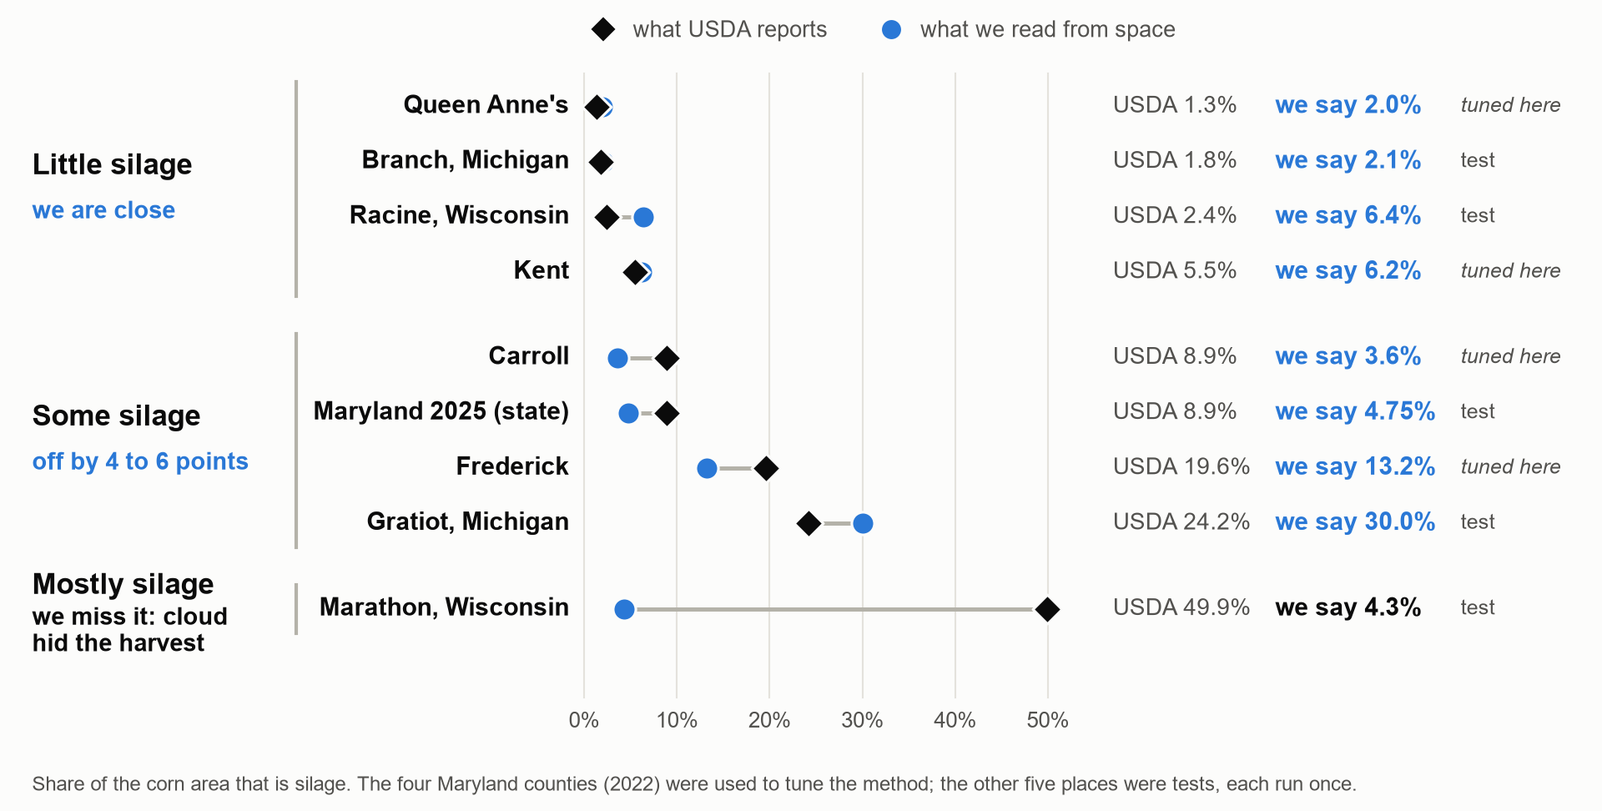
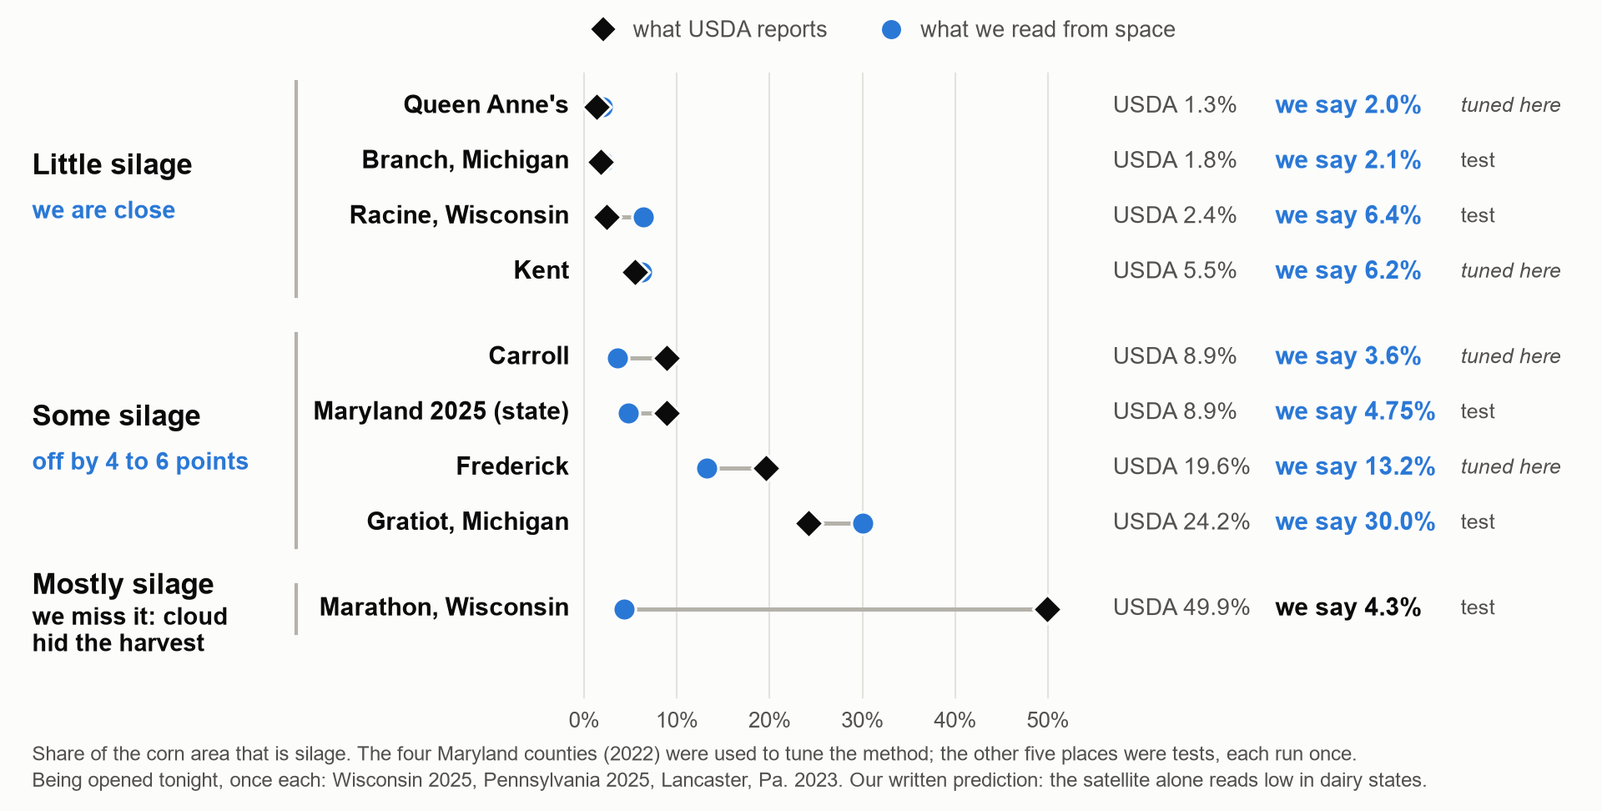
Deck: Landsat brings Marathon's corn back into view; starting from USDA's last figure, six of eight counties move closer; rows for the three tests still to come

Changed region(s): [[0.0, 0.9259, 0.9062, 0.9877]]

diff --git a/docs/pitch/build_deck.py b/docs/pitch/build_deck.py
@@ -123,16 +123,16 @@ ONE_MINUTE = """
 2. The US has almost no labelled fields. So we trained on 8,000 fields from farm registries in Europe.
 3. Our model had never seen an American field. At Beltsville it got 42 of USDA's 44 labelled fields right.
 4. In counties where silage is rare, our numbers are close to USDA's.
-5. We missed one dairy county in Wisconsin. Clouds hid the silage harvest there for 25 days.
-6. Next, we will report such a county as a range, and add a second satellite, Landsat, which had a clear picture inside that gap.
+5. We missed one dairy county in Wisconsin. Clouds hid the silage harvest for 25 days, and a second satellite, Landsat, brought most of it back into view.
+6. Next we need labelled fields from northern dairy country, because silage there is cut later than in Europe.
 
 === 一分钟版本（上面六句的中文） ===
 1. 美国农业部问：从太空看，一块玉米地是切碎做了青贮，还是收了籽粒？
 2. 美国几乎没有带标签的地块，所以我们用欧洲农场登记里的 8,000 个地块来训练。
 3. 我们的模型从没见过美国的地。在 Beltsville，美国农业部 44 个带标签的地块它对了 42 个。
 4. 在青贮很少的县，我们的数字和美国农业部的很接近。
-5. 我们读错了威斯康星的一个奶牛县：那里的云把青贮收割期挡住了 25 天。
-6. 下一步，这样的县我们会报一个范围，并且加上第二颗卫星 Landsat，它在那段多云期中间拍到了一张清晰的影像。"""
+5. 我们读错了威斯康星的一个奶牛县：云把青贮收割期挡住了 25 天，第二颗卫星 Landsat 把其中大部分又看回来了。
+6. 下一步我们需要北方奶牛产区带标签的地块，因为那里的青贮比欧洲割得晚。"""
 
 
 def build(out):
@@ -141,7 +141,7 @@ def build(out):
     half = (FULL - 0.4) / 2
     third = (FULL - 2 * 0.3) / 3
 
-    # ===== the story, nine slides =====================================================================
+    # ===== the story, ten slides ======================================================================
 
     # 1  the question ----------------------------------------------------------------------------
     s = new_slide(prs, "Can you tell what happened in a cornfield from space?", size=38, top=0.7, height=1.3)
@@ -170,7 +170,8 @@ def build(out):
     text(s, MX + half + 1.1, 1.8, half - 1.1, 0.5, "Austria, France, the Netherlands", size=20, bold=True, color=WHITE)
     text(s, MX + half + 1.1, 2.35, half - 1.1, 1.6, f"{N.FIELDS_LABELLED_EUROPE:,}", size=110, bold=True, color=WHITE)
     text(s, MX + half + 1.1, 4.2, half - 1.1, 0.9, "fields where the farmer told the government: silage, or grain.", size=16, color=WHITE)
-    text(s, MX, 5.6, FULL, 1.3, "A new data source: European farm registries.\nThe model learns there. It is tested here, on fields it has never seen.",
+    text(s, MX, 5.6, FULL, 1.3, "Two new data sources: European farm registries to learn from, and a second satellite, Landsat, for cloudy weeks.\n"
+         "The model learns in Europe. It is tested here, on fields it has never seen.",
          size=22, color=INK, spacing=1.2)
     notes(s, "To teach a computer you need examples, and the US has only 44 labelled fields. "
              "But in Europe, farmers tell their governments what each field is for. So we learned from 8,000 European fields.",
@@ -260,7 +261,15 @@ def build(out):
              "We are close where silage is rare, and we miss the county where silage is everywhere.",
           "然后我们想办法把它考倒：拿九个地方和美国农业部自己的数字对比。青贮少的地方我们很接近；青贮最多的那个县，我们读错了。")
 
-    # 7  what the data taught us ---------------------------------------------------------------------------
+    # 7  starting from USDA's last figure ---------------------------------------------------------------------
+    s = new_slide(prs, "Start from USDA's last figure: our pictures move six of eight counties closer to the truth")
+    body_picture(s, "s_update.png")
+    notes(s, "USDA already has an older number for every county. We start from it and let the pictures update it, field by field. "
+             "In six of eight counties the update moves closer to the truth. These are counties we tuned on, so it is not a test yet.",
+          "美国农业部对每个县都已经有一个旧数字。我们从它出发，让卫星图片逐块地更新它。八个县里有六个更接近真值。"
+          "这些是我们调优时用过的县，所以还不算检验。")
+
+    # 8  what the data taught us ---------------------------------------------------------------------------
     s = new_slide(prs, "What went wrong while we built it, and what it taught us")
     f = N.FIRST_COUNTY_TOTAL
     lessons = [
@@ -270,9 +279,9 @@ def build(out):
          "A clever correction failed the test we had written for it (21% for 5.5%). We dropped it.", False),
         ("Green is not always silage",
          "Some grain is cut early, still green. Crop history tells them apart; the picture cannot.", False),
-        ("A cloudy month can hide a whole harvest",
-         f"In the heaviest dairy county, {N.MARATHON_GAP['days']} cloudy days sat on the silage harvest. We read 4% for USDA's 50%. "
-         "Now adding Landsat, a second satellite that saw into the gap.", True),
+        ("Clouds hid a harvest. A second satellite found most of it",
+         f"In the heaviest dairy county we read 4% for USDA's 50%. Landsat brought {N.LANDSAT_MARATHON['seen_after']}% of the corn "
+         "back into view and the reading rose to 14%. The rest needs northern fields to learn from.", True),
     ]
     for i, (head, line, open_) in enumerate(lessons):
         x = MX + (i % 2) * (half + 0.4)
@@ -282,9 +291,9 @@ def build(out):
         text(s, x + 1.2, y + 0.3, half - 1.5, 0.9, head, size=21, bold=True, color=WHITE if open_ else INK, spacing=1.05)
         text(s, x + 1.2, y + 1.2, half - 1.5, 1.2, line, size=15, color=WHITE if open_ else INK2, spacing=1.15)
     notes(s, "The data taught us four things on the way. Do not count what you cannot see. Test your own fix. "
-             "And clouds can hide a whole harvest, as they did in one dairy county.",
+             "And when clouds hid a whole harvest, a second satellite brought most of it back.",
           "一路上数据教了我们四件事：看不见的不要数；自己的修正也要检验；绿的不一定是青贮；"
-          "还有，云可以挡住一整个收割期，一个奶牛县就是这样读错的。")
+          "还有，云挡住了一整个收割期的时候，第二颗卫星把大部分又看回来了。")
 
     # 8  the whole team system -------------------------------------------------------------------------------
     s = new_slide(prs, "Where our model sits in the team's system")
@@ -332,13 +341,13 @@ def build(out):
     card(s, MX, 1.5, half, 3.55)
     text(s, MX + 0.4, 1.7, half - 0.8, 0.5, "Today", size=24, bold=True, color=BLUE)
     text(s, MX + 0.4, 2.4, half - 0.8, 2.6, "A call for every corn field, with the evidence behind it.\n\n"
-         "County and state acres, with how much we could not see.\n\n"
-         "Free public data. No US labels needed. Runs on a laptop.", size=16, color=INK, spacing=1.08)
+         "Which way a county has moved since USDA's last figure.\n\n"
+         "Free public data, no US labels, about a minute per county on a laptop.", size=16, color=INK, spacing=1.08)
     card(s, MX + half + 0.4, 1.5, half, 3.55)
     text(s, MX + half + 0.8, 1.7, half - 0.8, 0.5, "Next", size=24, bold=True, color=BLUE)
-    text(s, MX + half + 0.8, 2.4, half - 0.8, 2.6, "A second satellite, Landsat: it saw into the cloudy spell that hid a whole harvest.\n\n"
-         "Count the corn sown after a small grain, which today's state number leaves out.\n\n"
-         "Report a cloudy county as a range, not as one number.", size=16, color=INK, spacing=1.08)
+    text(s, MX + half + 0.8, 2.4, half - 0.8, 2.6, "The second satellite, Landsat, everywhere: it brought a cloud-hidden county back into view.\n\n"
+         "Labelled fields from northern dairy country, where silage is cut later than in Europe.\n\n"
+         "Count the corn sown after a small grain.", size=16, color=INK, spacing=1.08)
     card(s, MX, 5.3, FULL, 1.6, fill=BLUE, line=None)
     text(s, MX + 0.4, 5.42, FULL - 0.8, 0.7, "We do not ask you to trust the model. We show where it can be trusted, and where not yet.",
          size=22, bold=True, color=WHITE, anchor=MSO_ANCHOR.MIDDLE)
@@ -351,12 +360,12 @@ def build(out):
     # ===== more detail: each slide stands on its own ====================================================================
 
     s = new_slide(prs, "The slides after this one go deeper. Each stands on its own", size=34, top=2.6, height=1.4)
-    text(s, MX, 4.2, FULL, 1.2, "Slides 1 to 9 tell the story in order. Take any of the slides that follow into your own deck: "
+    text(s, MX, 4.2, FULL, 1.2, "Slides 1 to 10 tell the story in order. Take any of the slides that follow into your own deck: "
          "each has its point in the title and one picture.", size=20, spacing=1.2)
     notes(s, "This slide only separates the story from the detail. Do not show it.",
           "这一页只是把主线和细节分开，演讲时不要放。")
 
-    s = new_slide(prs, "In Marathon County, clouds sat on the silage harvest for 25 days")
+    s = new_slide(prs, "Clouds hid Marathon County's silage harvest for 25 days. A second satellite found most of it")
     g = N.MARATHON_GAP
     cw = 7.9
     picture(s, "marathon_gap.png", MX, 1.45, cw)
@@ -365,18 +374,18 @@ def build(out):
     text(s, tx, 2.0, tw, 1.9, f"In September, Marathon's fields had one clear picture each. Racine had four.\n\n"
          f"{g['fields_cut_inside']}% of Marathon's fields were cut inside a {g['days']}-day cloudy gap ({g['start']} to {g['end']}). "
          "The fields we did see were the late harvest, which is grain.", size=13.5, color=INK, spacing=1.1)
-    text(s, tx, 3.95, tw, 0.4, "What sees into the gap", size=18, bold=True, color=BLUE)
-    text(s, tx, 4.4, tw, 0.9, f"Landsat, a second satellite, passed on {g['landsat_clear']} with a clear view. "
-         "We are adding it tonight: no result yet.", size=13.5, color=INK, spacing=1.1)
-    sn = N.SAFETY_NET
-    card(s, tx, 5.3, tw, 1.6)
-    text(s, tx + 0.2, 5.4, tw - 0.4, 1.45, f"A safety net, not a test: on the {sn['counties']} counties we have seen, the satellite alone misses by "
-         f"{sn['satellite']} points on average, land use alone by {sn['land_use']}, the two averaged by {sn['both']}. "
-         "The land-use figure was fitted on a Census that includes these counties.", size=11.5, spacing=1.08)
-    notes(s, "The classifier is not broken here. Clouds hid the silage harvest for 25 days, so we only saw the late fields, which are grain. "
-             "A second satellite, Landsat, had a clear picture inside that gap, and we are adding it now.",
-          "这里不是分类器坏了。云把青贮收割期挡住了 25 天，我们只看到了晚收的地，那些是籽粒。"
-          "第二颗卫星 Landsat 在这段时间里有一张清晰的影像，我们正在把它加进来。")
+    ls = N.LANDSAT_MARATHON
+    text(s, tx, 3.9, tw, 0.4, "What a second satellite did", size=18, bold=True, color=BLUE)
+    text(s, tx, 4.35, tw, 1.0, f"Adding Landsat brought the corn we could see from {ls['seen_before']}% to {ls['seen_after']}%. "
+         f"Our figure rose from {ls['silage_before']}% to {ls['silage_after']}%. USDA says {ls['usda']}%.", size=13.5, color=INK, spacing=1.1)
+    text(s, tx, 5.4, tw, 0.4, "What is still missing", size=18, bold=True, color=BLUE)
+    text(s, tx, 5.85, tw, 1.1, "Silage in the north is cut after the crop has yellowed. A model trained in Europe reads that as grain. "
+         "It needs labelled northern fields.", size=13.5, color=INK, spacing=1.1)
+    notes(s, "Clouds hid the silage harvest for 25 days, so we only saw the late fields, which are grain. "
+             "A second satellite, Landsat, brought most of the corn back into view, and our figure rose from 4 to 14 percent. "
+             "The rest needs labelled fields from the north.",
+          "云把青贮收割期挡住了 25 天，我们只看到了晚收的地，那些是籽粒。第二颗卫星 Landsat 把大部分玉米又看回来了，读数从 4% 升到 14%。"
+          "剩下的差距需要北方带标签的地块来解决。")
 
     s = new_slide(prs, "Every place checked against USDA, with both ways of adding up")
     body_picture(s, "s05_places.png")
@@ -403,8 +412,8 @@ def build(out):
          "Dropped dates in training; tried a sequence model", "37 → 39 of 44; the sequence model reaches 42, a tie"),
         ("A northern dairy county reads far too low: Marathon 4% for 50%. A 25-day cloudy spell lay over the silage harvest, "
          "and our \"not seen\" measure did not flag it",
-         "Repair the measure so such a county is reported as a range; add a land-use figure beside; add Landsat, a second satellite with a clear picture inside the gap",
-         "In progress tonight"),
+         "Added Landsat, a second satellite: corn seen 29% → 83%. Repairing the measure so such a county is reported as a range",
+         "4.3% → 13.8% (USDA 49.9%). The rest needs northern training fields"),
     ]
     y = 1.85
     for i, cells in enumerate(fixes):
@@ -414,9 +423,9 @@ def build(out):
             text(s, x + 0.2, y, w - 0.3, rh, cell, size=13.5, bold=strong, color=INK, anchor=MSO_ANCHOR.MIDDLE, spacing=1.05)
         y += rh + 0.06
     notes(s, "The tuning in one table: each row is a problem the data showed us, what we did, and what came out. "
-             "Early green grain is not solved, and the fix for the cloudy dairy county is in progress.",
+             "Early green grain is not solved, and the cloudy dairy county is only partly fixed.",
           "一张表讲完调优过程：每一行是数据暴露出的一个问题、我们的做法和结果。"
-          "趁绿早收的籽粒玉米还没解决；多云的那个奶牛县，修正正在做。")
+          "趁绿早收的籽粒玉米还没解决；多云的那个奶牛县只修好了一部分。")
 
     s = new_slide(prs, "Why we count only the fields we saw clearly")
     body_picture(s, "s09_gap_evidence.png")

diff --git a/docs/pitch/deck_figs.py b/docs/pitch/deck_figs.py
@@ -65,12 +65,12 @@ def places():
     fig = body()
     ax = fig.add_axes([0.2, 0.2, 0.79, 0.7])
     D.clean(ax, grid=None)
-    ax.set_xlim(-0.8, 112)
-    usda_x, ours_x, beside_x = 61.5, 70.5, 72.5
+    ax.set_xlim(-0.8, 116)
+    usda_x, ours_x, beside_x = 65, 74, 76
     step = 0.78
     tuning = [r for r in N.PLACES if r[0] == "tuning"]
     tests = [r for r in N.PLACES if r[0] == "test"]
-    top = 0.7 + step * (len(tuning) + len(tests) + len(N.PLACES_HELD)) + 1.9
+    top = 0.7 + step * (len(tuning) + len(tests) + len(N.PLACES_TO_OPEN)) + 1.9
     ax.set_ylim(0, top + 1.15)
     y_of = {}
     y = top
@@ -85,11 +85,21 @@ def places():
         y_of[row[1]] = y
     lowest = y
     y -= 0.95
-    ax.text(0, y, "Not opened", fontsize=13.5, fontweight="bold", color=INK, va="center")
-    for name in N.PLACES_HELD:
+    ax.text(0, y, "Opened last, once each. Our prediction, written first: the satellite alone reads low in dairy states",
+            fontsize=13.5, fontweight="bold", color=INK, va="center")
+    for name, usda, band, ours in N.PLACES_TO_OPEN:
         y -= step
-        ax.text(-1.6, y, name, ha="right", va="center", fontsize=12.5, color=INK2)
-        D.to_come(ax, 0.6, 52, y, "held back as the clean test of the next fix", half=0.25, size=12)
+        ax.text(-1.6, y, name, ha="right", va="center", fontsize=14.5, fontweight="bold", color=INK)
+        if band:
+            ax.plot(band, [y, y], color=INK, lw=8, alpha=0.16, solid_capstyle="round", zorder=1)
+        ax.scatter([usda], [y], s=125, marker="D", color=INK, edgecolors=BG, linewidths=1.5, zorder=6)
+        ax.text(usda_x, y, pct(usda), fontsize=14, color=INK, ha="right", va="center")
+        if ours is None:
+            ax.text(ours_x, y, "to come", fontsize=12.5, color=INK2, ha="right", va="center", style="italic")
+        else:
+            ax.plot([min(usda, ours), max(usda, ours)], [y, y], color=GREY, lw=2.2, zorder=2)
+            ax.scatter([ours], [y], s=150, color=BLUE, edgecolors=BG, linewidths=1.5, zorder=5)
+            ax.text(ours_x, y, pct(ours), fontsize=14.5, fontweight="bold", color=BLUE, ha="right", va="center")
     ax.text(usda_x, top + 0.75, "USDA", fontsize=13, color=INK2, ha="right", va="center")
     ax.text(ours_x, top + 0.75, "Ours", fontsize=13, fontweight="bold", color=BLUE, ha="right", va="center")
     ax.text(beside_x, top + 0.75, "Beside it", fontsize=13, color=INK2, va="center")
@@ -201,9 +211,71 @@ def scoreboard():
     ]
     fig.legend(handles=handles, loc="upper left", bbox_to_anchor=(0.35, 1.0), ncol=2, frameon=False, fontsize=13,
                labelcolor=INK2, handletextpad=0.3, columnspacing=1.8)
+    waiting = [p[0] for p in N.PLACES_TO_OPEN if p[3] is None]
+    more = (f"\nBeing opened tonight, once each: {', '.join(waiting)}. Our written prediction: the satellite alone reads low in dairy states."
+            if waiting else "")
     fig.text(0.02, 0.02, "Share of the corn area that is silage. The four Maryland counties (2022) were used to tune the method; "
-             "the other five places were tests, each run once.", fontsize=11.5, color=INK2, va="bottom")
+             "the other five places were tests, each run once." + more, fontsize=11.5, color=INK2, va="bottom", linespacing=1.4)
     put(fig, "s06_scoreboard")
+
+
+# --- starting from USDA's last figure: which way did the pictures move it? --------------------------
+def history_update():
+    def pct(v):
+        return f"{v:.1f}%"
+
+    rows = N.HISTORY_UPDATE
+    fig = body()
+    ax = fig.add_axes([0.2, 0.235, 0.79, 0.63])
+    D.clean(ax, grid=None)
+    ax.set_xlim(-20, 31)
+    n = len(rows)
+    ax.set_ylim(-0.7, n + 0.35)
+    ax.plot([0, 0], [-0.7, n - 0.4], color=INK, lw=1.6, zorder=1)
+    ax.text(0, n - 0.15, "the true figure", ha="center", va="bottom", fontsize=12.5, color=INK)
+    for x in (-15, -10, -5, 5):
+        ax.plot([x, x], [-0.7, n - 0.4], color=GRID, lw=1, zorder=0)
+    ax.text(9, n - 0.15, "USDA's last figure  →  with our pictures", fontsize=12.5, color=INK2, va="bottom")
+    ax.text(25.5, n - 0.15, "true", fontsize=12.5, color=INK2, va="bottom")
+    for i, (name, last, updated, true, band) in enumerate(rows):
+        y = n - 1 - i
+        a, b = last - true, updated - true
+        # "into USDA's range" only when the last figure lay outside the range and the updated one lies inside it
+        inside = band is not None and band[0] <= updated <= band[1] and not band[0] <= last <= band[1]
+        closer = abs(b) < abs(a)
+        if band:
+            ax.plot([band[0] - true, band[1] - true], [y, y], color=INK, lw=9, alpha=0.14, solid_capstyle="round", zorder=1)
+        good = closer or inside
+        ax.annotate("", xy=(b, y), xytext=(a, y), zorder=3,
+                    arrowprops=dict(arrowstyle="-|>", color=BLUE if good else INK, lw=2.6, mutation_scale=20, shrinkA=6, shrinkB=6))
+        ax.scatter([a], [y], s=110, facecolors=BG, edgecolors=GREY, linewidths=2.4, zorder=4)
+        ax.scatter([b], [y], s=150, color=BLUE if good else INK, edgecolors=BG, linewidths=1.5, zorder=5)
+        ax.text(-20.6, y, name, ha="right", va="center", fontsize=14.5, fontweight="bold", color=INK)
+        ax.text(9, y, f"{pct(last)}  →  {pct(updated)}", fontsize=14, color=INK, va="center")
+        ax.text(25.5, y, pct(true), fontsize=14, color=INK, va="center", fontweight="bold")
+        word = "closer" if closer else ("into USDA's range" if inside else "further away")
+        ax.text(9, y - 0.36, word, fontsize=11.5, color=BLUE if good else INK, va="center",
+                fontweight="normal" if good else "bold")
+    ax.set_yticks([])
+    ax.set_xticks([-15, -10, -5, 0, 5])
+    ax.set_xticklabels(["15 below", "10 below", "5 below", "right", "5 above"])
+    ax.set_xlabel("points of silage share below or above the true figure", fontsize=12.5, color=INK2, labelpad=8, loc="left")
+    handles = [
+        plt.Line2D([], [], marker="o", ls="", markersize=10, markerfacecolor=BG, markeredgecolor=GREY, markeredgewidth=2.4,
+                   label="USDA's last figure before that year"),
+        plt.Line2D([], [], marker="o", ls="", markersize=12, markerfacecolor=BLUE, markeredgecolor=BG,
+                   label="the same figure, updated field by field with our pictures"),
+    ]
+    fig.legend(handles=handles, loc="upper left", bbox_to_anchor=(0.19, 1.0), ncol=2, frameon=False, fontsize=13,
+               labelcolor=INK2, handletextpad=0.3, columnspacing=1.8)
+    m, st = N.HISTORY_UPDATE_MISS, N.HISTORY_UPDATE_STATE
+    fig.text(0.02, 0.02, "Eight counties we had already seen while tuning, so this is not a test yet. USDA's last figure: the 2017 Census "
+             "(in Wisconsin, the 2022 survey).\n"
+             f"Mean miss: last figure alone {m['last']} points, updated {m['updated']}; without Marathon {m['last_no_marathon']} and "
+             f"{m['updated_no_marathon']}. The satellite on its own: {m['satellite']}.\n"
+             f"For the one state tried, {st['name']}, the update moved away from the truth ({st['last']}% to {st['updated']}%, true {st['true']}%).",
+             fontsize=11.5, color=INK2, va="bottom", linespacing=1.4)
+    put(fig, "s_update")
 
 
 # --- Marathon: the silage weeks were the cloudy weeks ---------------------------------------------
@@ -476,6 +548,7 @@ if __name__ == "__main__":
     D.state_2025()
     places()
     scoreboard()
+    history_update()
     marathon_gap()
     transfer_summary()
     gap_evidence()

diff --git a/docs/pitch/pitch_numbers.py b/docs/pitch/pitch_numbers.py
@@ -283,3 +283,36 @@ MARATHON_GAP = {
 # 9 October with 24 % (Planetary Computer, landsat-c2-l2). The Landsat extraction was being built
 # when this was written: no result yet.
 SAFETY_NET = {"counties": 8, "satellite": 8.6, "land_use": 8.2, "both": 6.8}
+
+# Landsat 8 and 9 added to the Sentinel-2 pictures in Marathon 2023: a development check, not a
+# test (log 23:52 for what was run; 23:59 and 00:18 for the figures). Corn area seen 29 % -> 83 %
+# (log 23:17 and 00:18); silage figure 4.3 % -> 13.8 %; USDA 49.9 %, band 32.1-49.9 %.
+LANDSAT_MARATHON = {"seen_before": 29, "seen_after": 83, "silage_before": 4.3, "silage_after": 13.8, "usda": 49.9}
+
+# Starting from USDA's last figure and letting the pictures update it (log 00:11): the last
+# official silage share known before the test year (2017 Census for the 2022 counties, 2022 survey
+# for the two Wisconsin counties), then each clearly seen field's call shifted by that figure and
+# unseen fields keeping it. Counties seen while tuning: a development result, not a test.
+# (county, last official %, updated %, true %, USDA band or None)
+HISTORY_UPDATE = [
+    ("Queen Anne's", 2.2, 2.1, 1.3, None),
+    ("Branch, Michigan", 3.6, 1.9, 1.8, None),
+    ("Racine, Wisconsin", 4.2, 2.6, 2.4, None),
+    ("Kent", 5.8, 5.5, 5.5, None),
+    ("Carroll", 11.4, 5.3, 8.9, (4.8, 7.5)),
+    ("Frederick", 24.3, 16.6, 19.6, None),
+    ("Gratiot, Michigan", 19.8, 21.8, 24.2, None),
+    ("Marathon, Wisconsin", 44.9, 39.4, 49.9, (32.1, 49.9)),
+]
+# Mean miss in points, same row: last figure alone, updated, the satellite alone.
+HISTORY_UPDATE_MISS = {"last": 2.7, "updated": 2.6, "last_no_marathon": 2.3, "updated_no_marathon": 1.4, "satellite": 9.7}
+HISTORY_UPDATE_STATE = {"name": "Maryland 2025", "last": 9.5, "updated": 6.8, "true": 8.9}  # moved away
+
+# The three places opened last, once each, with the procedure, the pass marks and our own
+# prediction (the satellite alone will read low in dairy states) written first: log 00:18.
+# (name, USDA %, USDA band or None, ours % or None until logged)
+PLACES_TO_OPEN = [
+    ("Wisconsin 2025", 21.6, None, None),
+    ("Pennsylvania 2025", 32.8, None, None),
+    ("Lancaster, Pa. 2023", 44.5, (27.4, 54.8), None),
+]

diff --git a/docs/pitch/README.md b/docs/pitch/README.md
@@ -102,9 +102,12 @@ US labels, so learn from European farm registries (the new data source). 3 The s
 pictures: silage is cut green and wet (the harvest signal). 4 How it works in three plain steps,
 and the rule that a hidden harvest is not guessed. 5 The test on USDA's 44 labelled fields, with
 the rubric's four measures. 6 The scoreboard: nine places against USDA, close where silage is
-rare, a miss where it is everywhere. 7 What went wrong on the way and what it taught us (the
-process). 8 Where the model sits in the team's system. 9 What USDA gets today, what comes next,
-and the closing line. Everything more detailed is in the backup slides.
+rare, a miss where it is everywhere. 7 Starting from USDA's last figure, the pictures move six of
+eight counties closer to the truth (the value; counties seen while tuning, so not a test).
+8 What went wrong on the way and what it taught us (the process). 9 Where the model sits in the
+team's system. 10 What USDA gets today, what comes next, and the closing line. After a divider
+come the slides that go deeper; every slide stands on its own, so any of them can be lifted into
+another deck. The notes of slide 1 end with a one-minute spoken version of the whole story.
 
 ## Still to come
 
